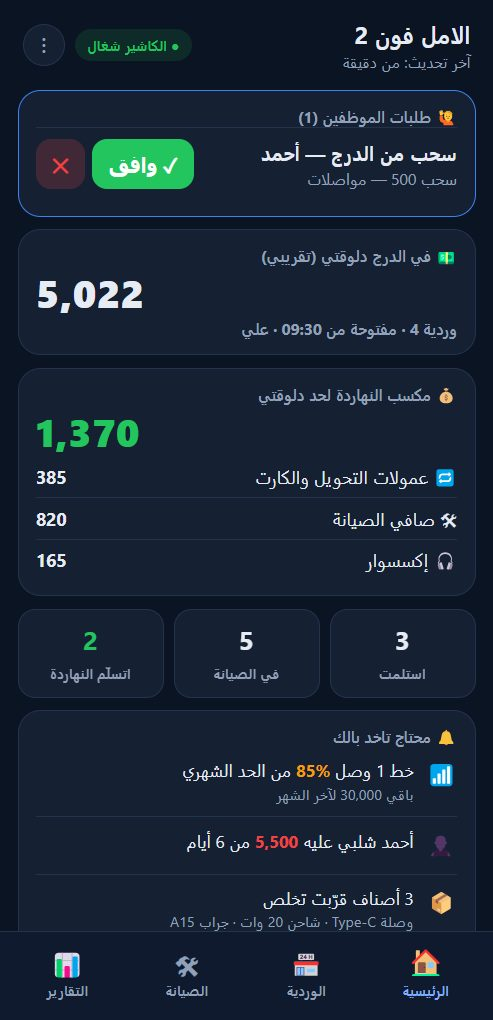
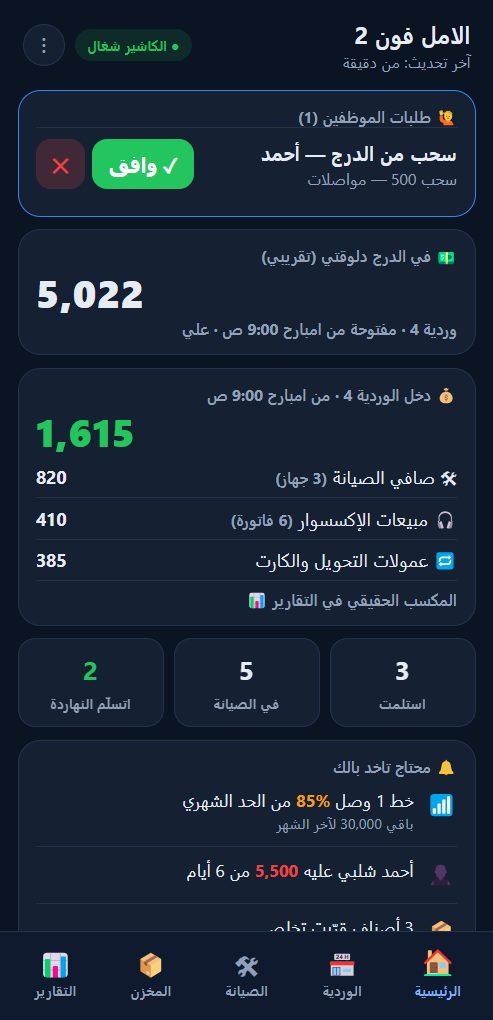
Site: new features (repair items, stock count, partner drawer, phone invoice/stock/count, split reports, watcher banks + password lock)

diff --git a/index.html b/index.html
@@ -233,6 +233,9 @@
       <div class="card rv" style="--d:0.00s"><div class="ic">💬</div><h3>واتساب للعميل</h3><p>رسالة لوحدها للعميل لما الجهاز يدخل الصيانة ولما يخلص، فيها المطلوب والميعاد.</p></div>
       <div class="card rv" style="--d:0.08s"><div class="ic">👷</div><h3>الموظفين والصلاحيات</h3><p>كل موظف بالـ PIN بتاعه، وسجل لكل عملية باسمه ومحمي من التلاعب، وطلبات توافق عليها من موبايلك قبل ما تتسجل.</p></div>
       <div class="card rv" style="--d:0.16s"><div class="ic">💾</div><h3>نسخ احتياطي ومزامنة</h3><p>نسخة محلية لوحدها وعلى Google Drive، وجهاز الصيانة يتربط بالكاشير على شبكة المحل ويشتغلوا على نفس البيانات.</p></div>
+      <div class="card rv" style="--d:0.00s"><div class="ic">🧩</div><h3>أكتر من إصلاح في الجهاز</h3><p>شاشة وبطارية وسوكت في تذكرة واحدة، كل إصلاح بسعره وتمن قطعته. ولو الجهاز رجع: اتعمله إيه، اتفقنا بكام، واتسلّم بكام.</p></div>
+      <div class="card rv" style="--d:0.08s"><div class="ic">📋</div><h3>الجرد</h3><p>عِد الرف من الكمبيوتر أو من الموبايل بالكاميرا، والناقص بيتسجل بقيمته ويوصلك إشعار. أو جرد سريع لـ 10 أصناف عشوائي.</p></div>
+      <div class="card rv" style="--d:0.16s"><div class="ic">🤝</div><h3>درج الصيانة والشريك</h3><p>دخل الصيانة وقطعها ومصاريفها، والصافي بيتقسم بينك وبين الفني الشريك بالنسبة، حتى لو انت مش موجود وقت التقفيل.</p></div>
     </div>
   </div>
 </section>
@@ -251,16 +254,18 @@
 <section>
   <div class="wrap split">
     <div class="phones rv">
-      <img src="img/m-settings.jpg" alt="إعدادات تطبيق الموبايل" loading="lazy">
+      <img src="img/m-invoice.jpg" alt="فاتورة من الموبايل" loading="lazy">
       <img src="img/m-home.jpg" alt="الرئيسية في تطبيق الموبايل" loading="lazy">
-      <img src="img/m-appr.jpg" alt="طلبات الموظفين على الموبايل" loading="lazy">
+      <img src="img/m-reports.jpg" alt="التقارير على الموبايل: الصيانة والإكسسوار" loading="lazy">
     </div>
     <div>
       <h2 class="rv" style="text-align:start">المحل على موبايلك</h2>
       <p class="sub" style="text-align:start;margin-inline:0">تطبيق أندرويد لصاحب المحل، بيتربط بالكاشير بـ QR مرة واحدة.</p>
       <ul class="ticks rv" style="--d:.1s">
-        <li><b>لحظي:</b> الدرج والمكسب والأجهزة أول ما حاجة تتغيّر.</li>
-        <li><b>إشعارات:</b> تقفيل الوردية، تحويل ماتسجلش، صنف قرب يخلص، وطلب من موظف.</li>
+        <li><b>لحظي:</b> الدرج ودخل الوردية المفتوحة (صيانة + إكسسوار + عمولات) والأجهزة، أول ما حاجة تتغيّر.</li>
+        <li><b>فاتورة ومخزن وجرد</b> من الموبايل زي الكمبيوتر، والكاميرا قارئ باركود.</li>
+        <li><b>تقارير واضحة:</b> الصيانة لوحدها والإكسسوار لوحده، والمكسب الحقيقي للشهر.</li>
+        <li><b>تحويل ماتسجلش؟</b> إشعار بصوت، وتسجّله أو تتجاهله من مكانك.</li>
         <li><b>توافق أو ترفض</b> طلبات الموظفين (سحب، مرتجع، مسح) من مكانك.</li>
         <li><b>استلام جهاز</b> أو نقله من الموبايل، والكاشير بيسجّله.</li>
         <li><b>قفل بالبصمة</b>، ونفس شكل البرنامج على الكمبيوتر.</li>
@@ -280,7 +285,9 @@
         <li><b>الرصيد:</b> رصيد كل خط من رسالة الشركة ↔ رصيد الوردية، ومصاريف الشركة بتتطرح لوحدها.</li>
         <li><b>حد الخط:</b> اطلب <bdi dir="ltr">*9*333#</bdi> والحد بيتصحّح لوحده.</li>
         <li><b>كل تليفون وكل شريحة</b> عارفين خطهم، حتى لو عندك كذا خط.</li>
+        <li><b>البنوك:</b> انستاباي والأهلي وبنك مصر وQNB، ورسايل العروض والكاش باك بتتجاهل لوحدها.</li>
         <li><b>محفظتك الشخصية</b> اقفلها من التطبيق ومابتتبعتش خالص.</li>
+        <li><b>محدش يقفله من وراك:</b> تغيير اللي بيراقبه أو فصله محتاج باسورد حساب المحل، ولو حاجة اتقفلت يوصلك تنبيه.</li>
         <li><b>بيقولك</b> لو التليفون فصل أو بطاريته قربت تخلص.</li>
       </ul>
       <a class="btn dl rv" style="--d:.2s" href="https://github.com/khalid374374/repair-desk/releases/download/repair-desk/RepairDesk-Watcher.apk">⬇ نزّل مراقب المحافظ</a>
@@ -321,8 +328,9 @@
     </div>
     <div class="faq rv" style="max-width:760px;margin:34px auto 0">
       <details><summary>البيانات بتتحفظ فين؟</summary><p>على كمبيوتر المحل نفسه، ونسخة احتياطية لوحدها على الجهاز وعلى Google Drive لو حبيت. الموبايل بياخد ملخص الأرقام بس، من غير تليفونات العملاء.</p></details>
-      <details><summary>الموظف يقدر يلعب في الحسابات؟</summary><p>كل عملية متسجلة باسم اللي عملها في سجل محمي، والموظف مايقدرش يمسح ولا يقفل الوردية، والسحب أو المرتجع فوق الحد اللي تحدده بيستنى موافقتك.</p></details>
+      <details><summary>الموظف يقدر يلعب في الحسابات؟</summary><p>كل عملية متسجلة باسم اللي عملها في سجل محمي، والموظف مايقدرش يمسح ولا يقفل الوردية، والسحب أو المرتجع فوق الحد اللي تحدده بيستنى موافقتك. وجهاز الصيانة مايستلمش جهاز بنفسه: لازم يعدّي على الكاشير الأول.</p></details>
       <details><summary>عندي جهاز للصيانة وجهاز للكاشير؟</summary><p>بيتربطوا على شبكة المحل بكود، وكل جهاز بيشوف التعديلات اللي على التاني على طول.</p></details>
+      <details><summary>الموبايل يشتغل لو الكاشير مقفول؟</summary><p>بيعرض آخر أرقام وصلته، والفاتورة أو الاستلام اللي تعمله من الموبايل بيستنى ويتسجل أول ما الكاشير يتفتح، لإن البيانات على كمبيوتر المحل.</p></details>
       <details><summary>البرنامج بيتحدّث إزاي؟</summary><p>لوحده: أول ما نسخة جديدة تنزل بيتحدّث وانت فاتحه.</p></details>
     </div>
   </div>
